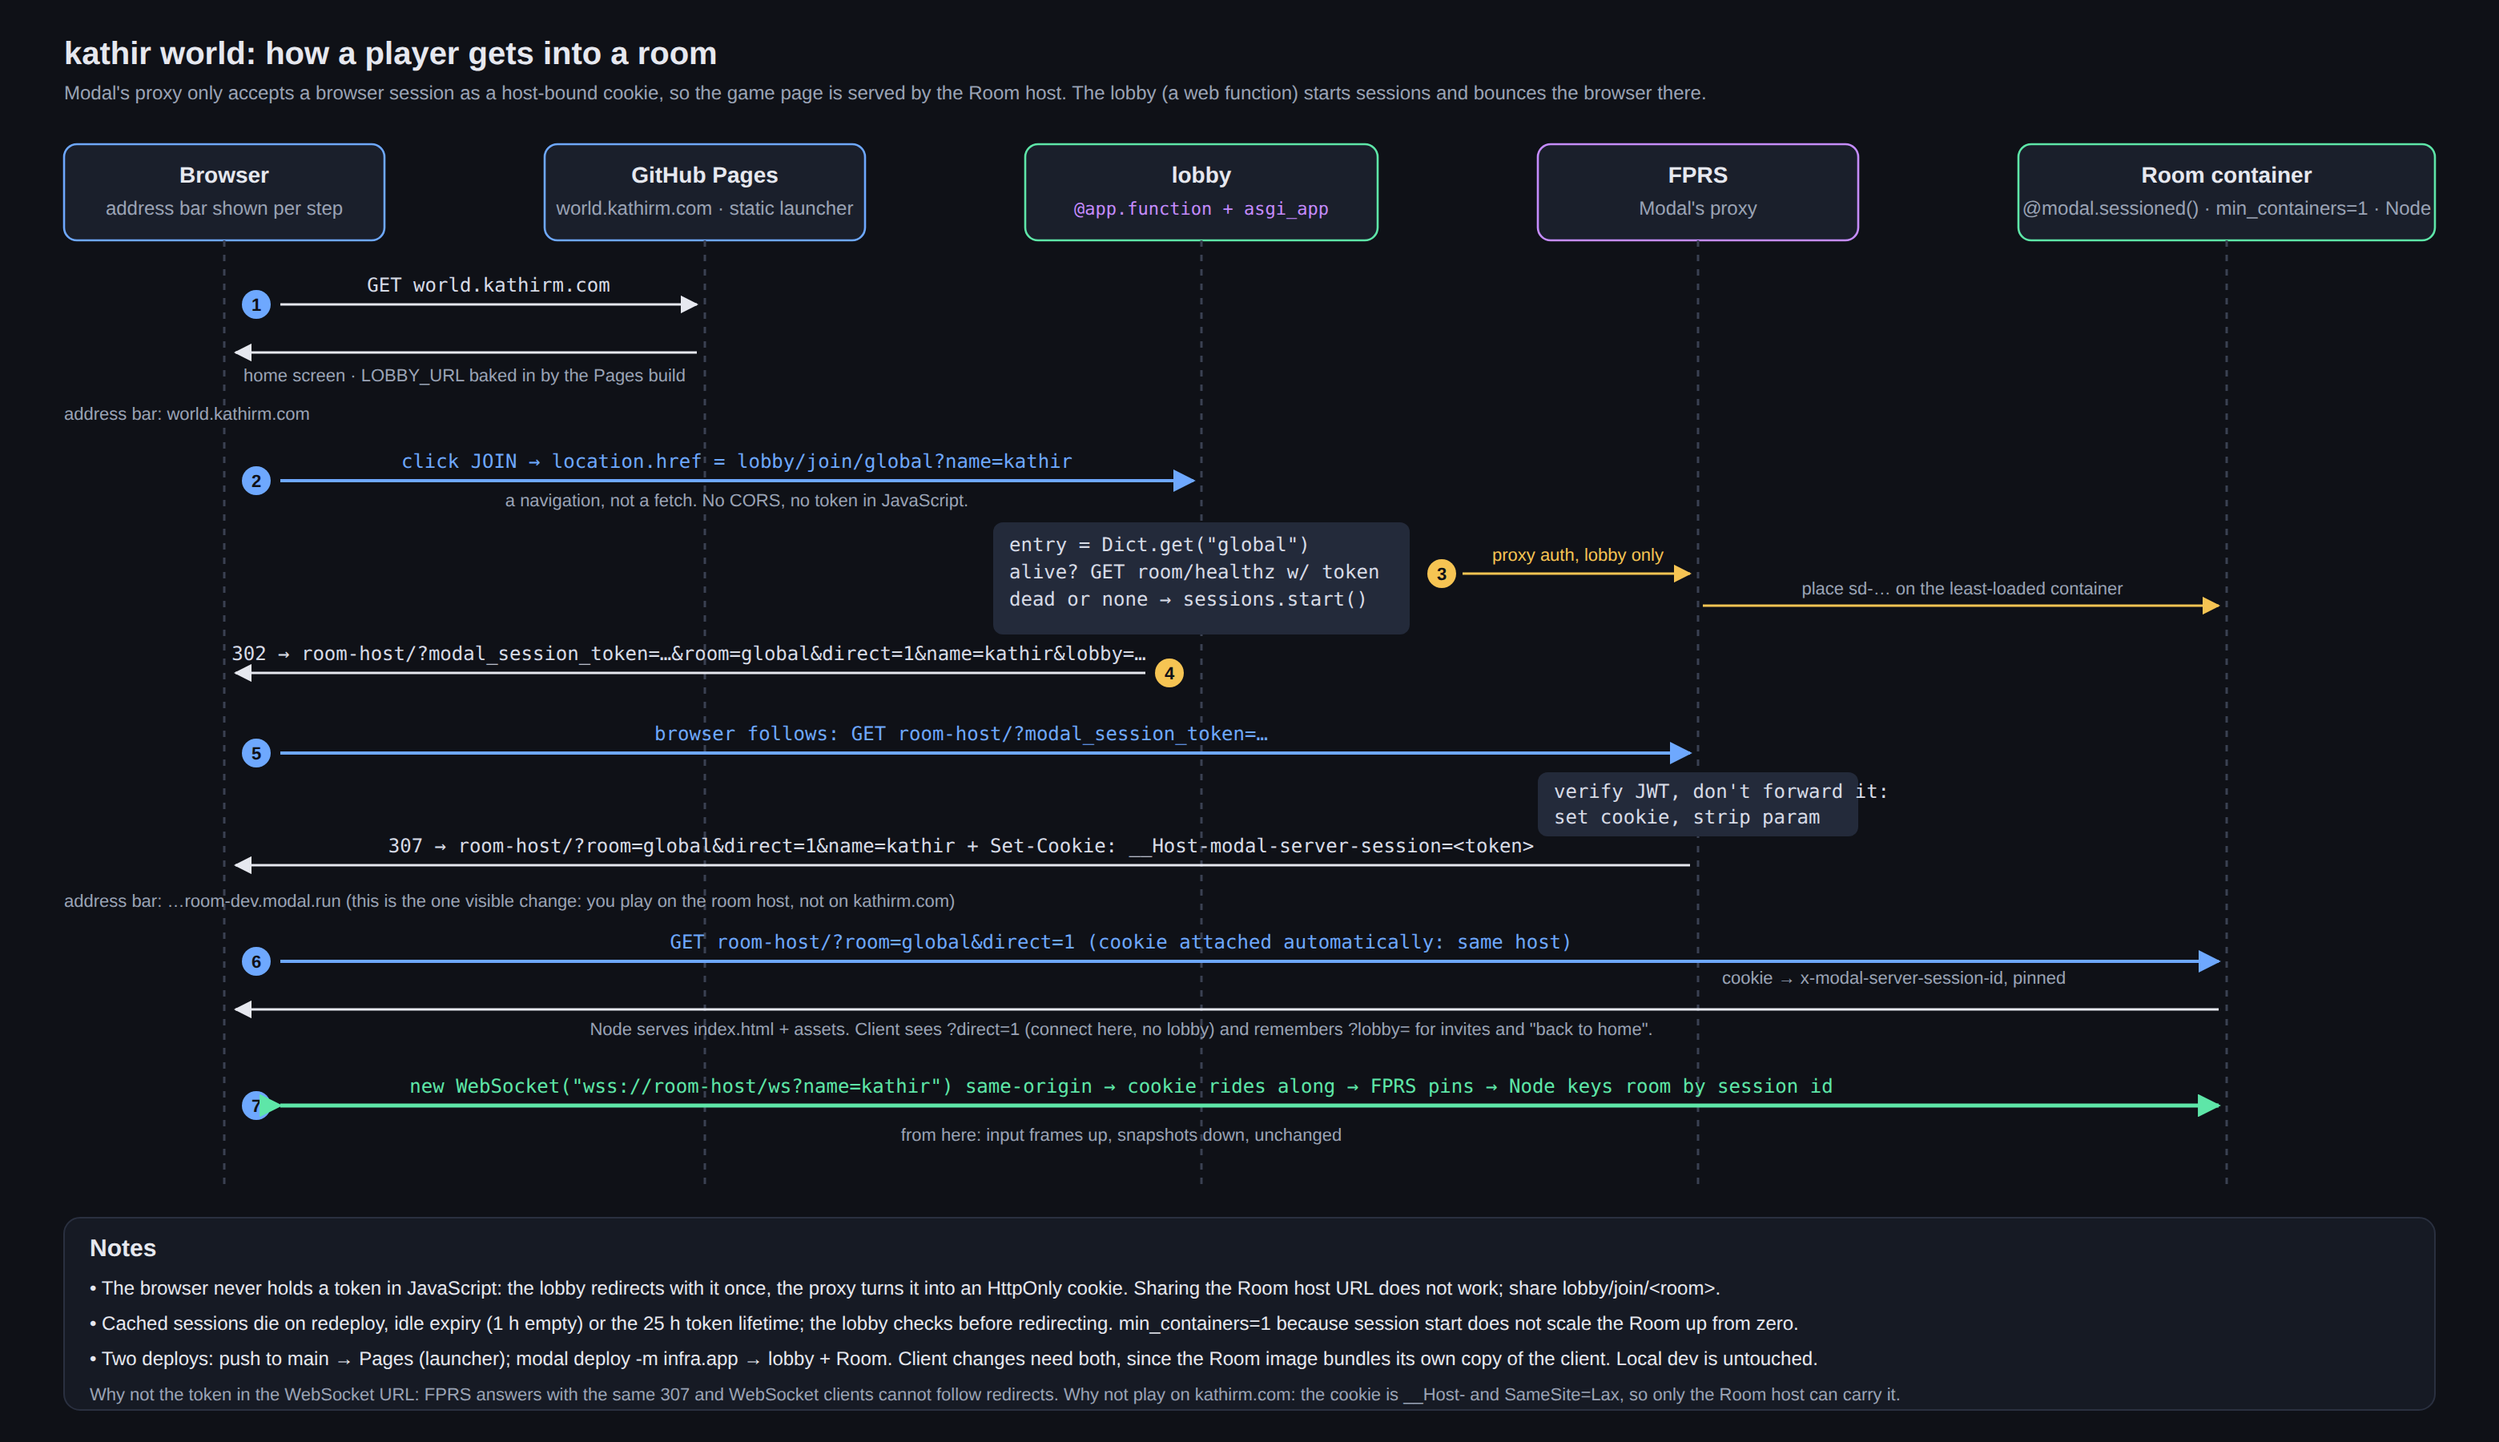
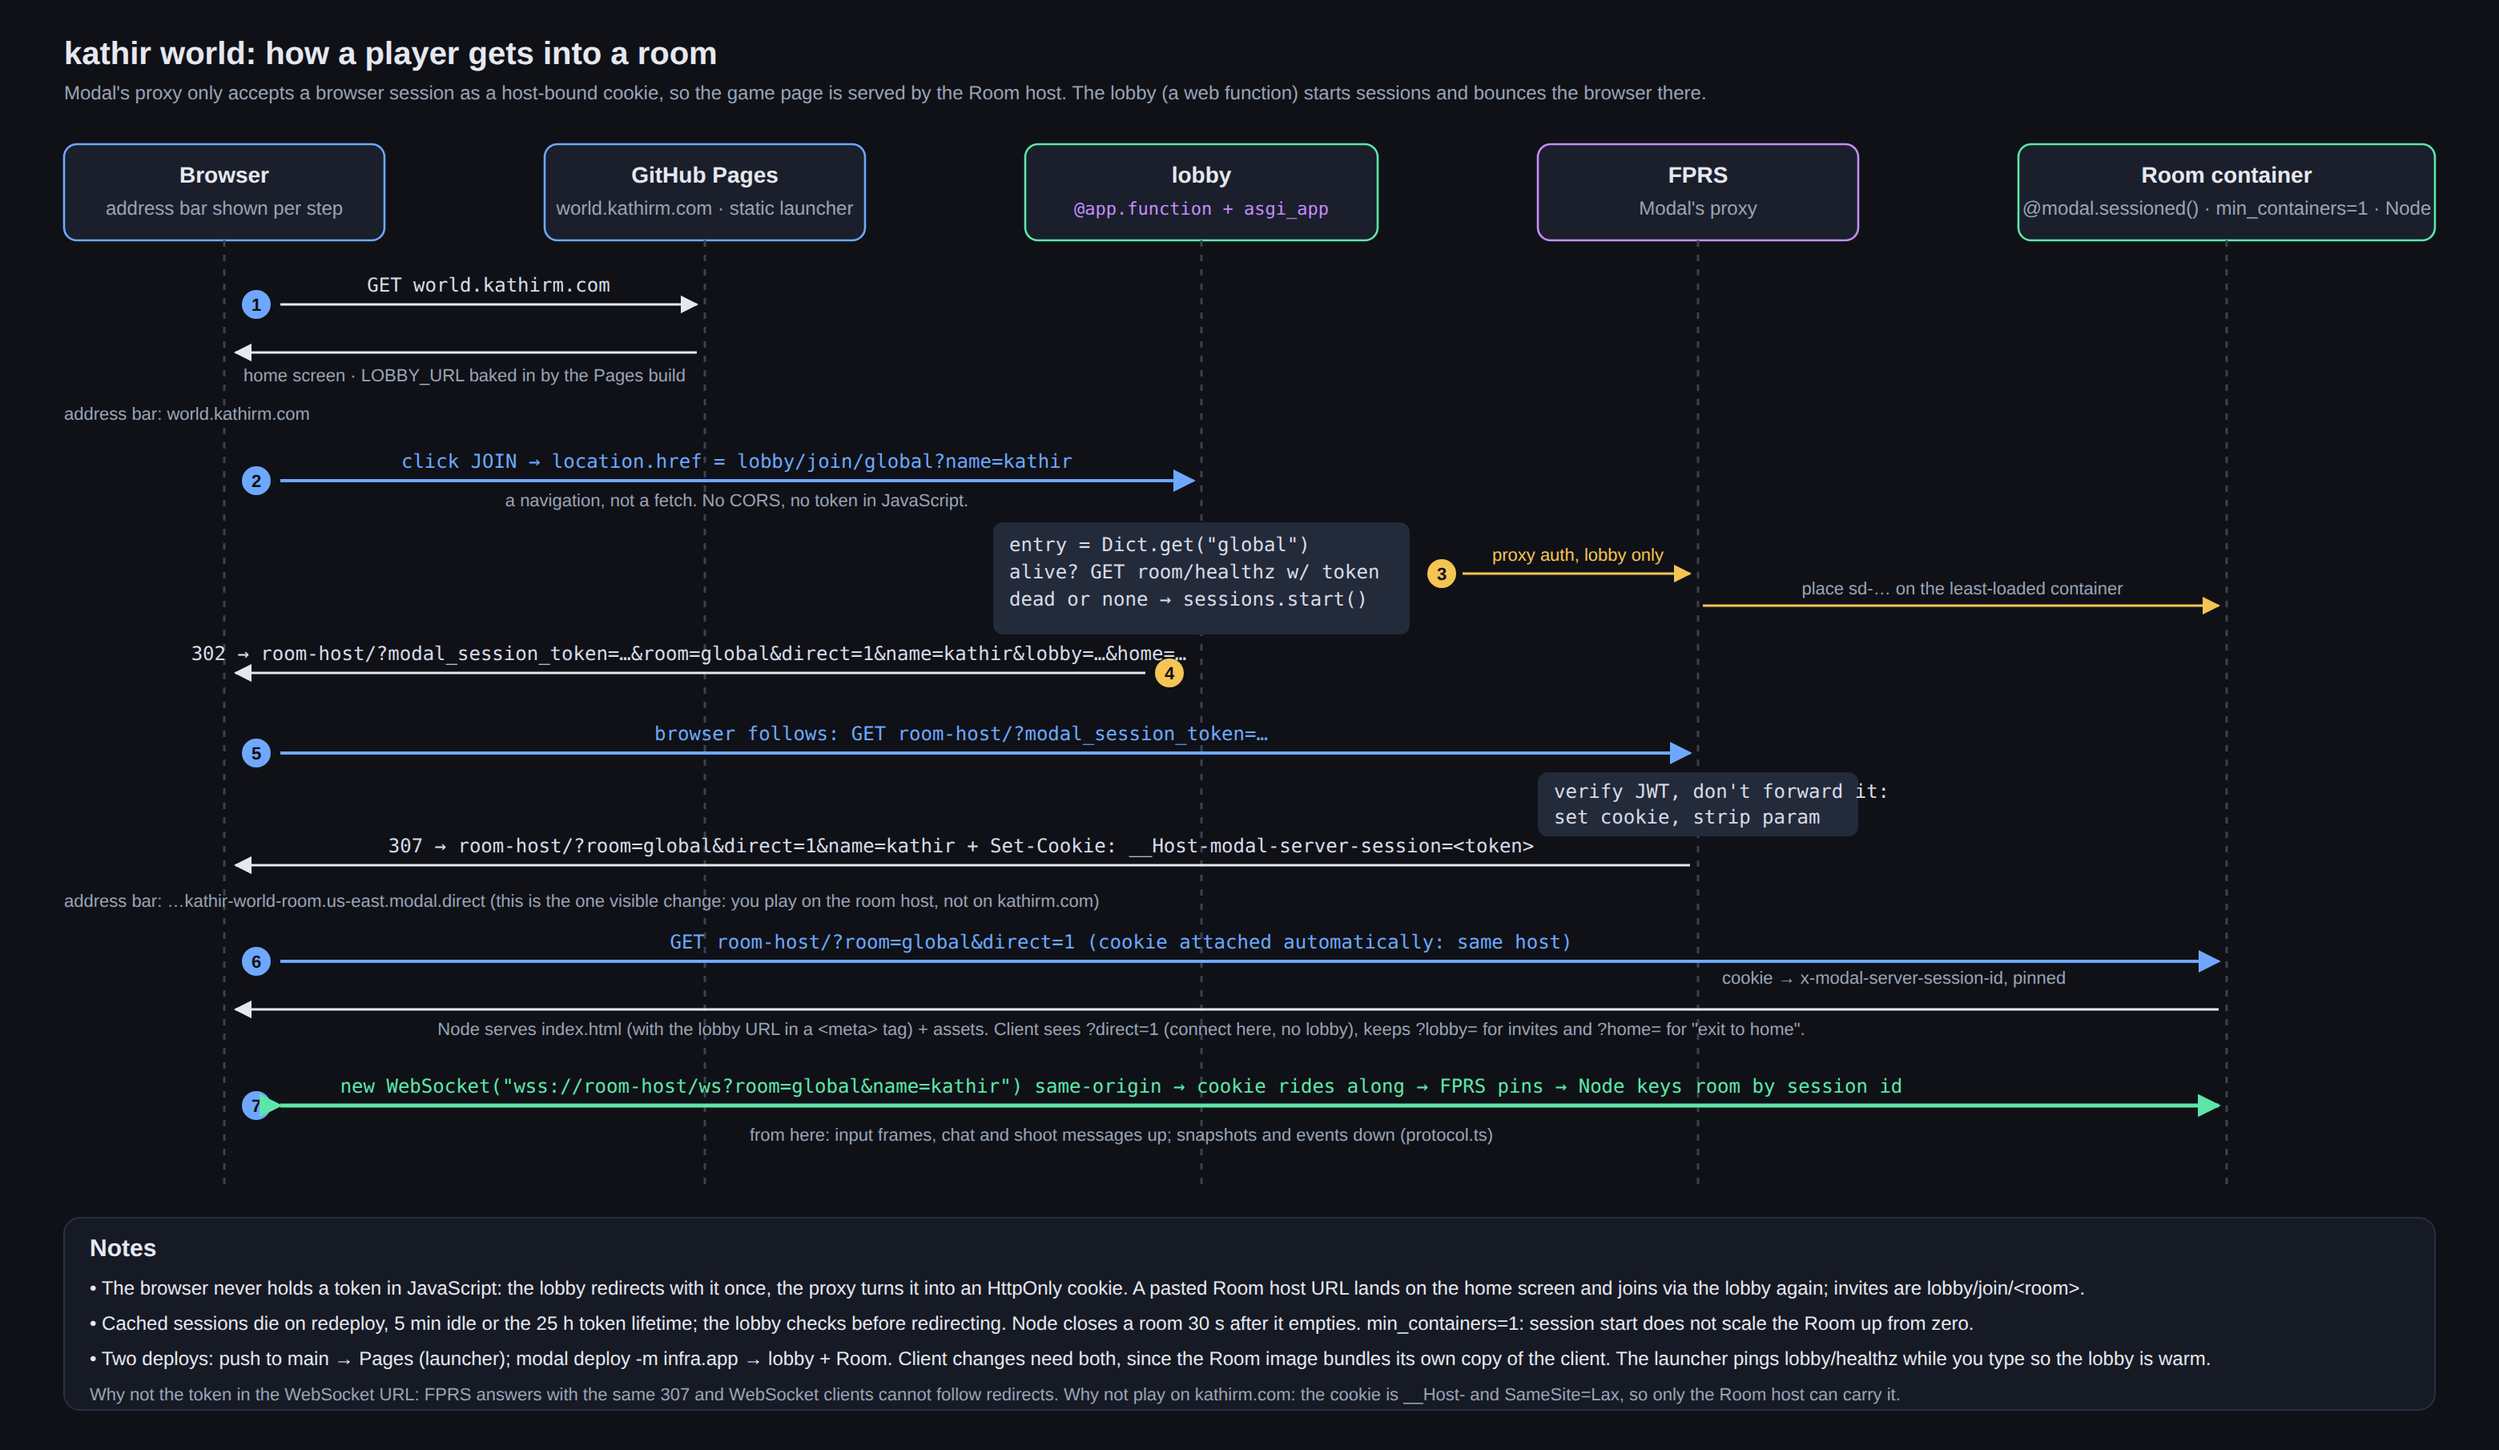
README is just the intro; the rest moves to docs/development.md
The join-flow diagram is redrawn for the current flow: the home param,
the meta tag with the lobby URL, the room in the WebSocket URL, 5 min
session idle, and the real room host name.

Claude-Session: https://claude.ai/code/session_014YYmWMHKTgzd54BtTa2jqc

diff --git a/docs/development.md b/docs/development.md
@@ -1,0 +1,79 @@
+# Development
+
+## Run it locally
+
+```bash
+npm install
+npm run dev        # room server on :8787 + Vite client on :5173
+```
+
+Open http://localhost:5173 in two tabs, join the same room code, and you're in multiplayer.
+Invite links look like `http://localhost:5173/?room=<code>`; add `&name=<name>` to skip the form.
+
+Useful while iterating:
+
+```bash
+npm run typecheck                  # all packages
+npm test                           # sim + room unit tests, and a real-server integration test
+npm run e2e                        # two headless browsers in one room (needs Chromium; set CHROMIUM_PATH if not default)
+SIM_LATENCY_MS=120 SIM_JITTER_MS=40 npm run dev:server   # watch prediction/reconciliation under lag
+```
+
+## Layout
+
+```
+packages/shared    @world/shared   pure TS: sim (movement, cubes, combat, items, avatars), protocol, Room host, content
+packages/client    @world/client   Vite + Babylon: home screen, rendering, input, prediction, interpolation, HUD
+packages/server    @world/server   Node: WebSocket room server, one process hosts many rooms, serves the client on Modal
+infra/                             Modal: lobby web function + sessioned Room server (Python package)
+docs/                              this file and the diagrams
+```
+
+`packages/shared` has no DOM or Node dependencies on purpose: the same `stepPlayer` runs on the
+server (authoritative) and in the browser (prediction), which is what lets reconciliation be exact.
+Anything about a player (position, item, avatar, hearts, boost) lives in `PlayerState` and is
+carried in every snapshot; the wire format is `packages/shared/src/protocol.ts`.
+
+## How multiplayer works
+
+- The client samples input at 30 Hz into numbered `InputFrame`s, applies each one locally right
+  away (prediction), and sends it to the room.
+- The room ticks at 30 Hz, applies each player's queued frames with the shared sim, steps the cubes,
+  and broadcasts a snapshot of everyone.
+- On each snapshot the client rewinds its own player to the server's state and replays the frames
+  the server hasn't acknowledged yet. Any residual difference is smoothed out over ~60 ms.
+- Remote players and cubes are rendered 3 ticks behind the newest snapshot, interpolating between
+  the two snapshots that bracket that time.
+- Look direction is client-authoritative; movement, jumping, shooting and damage are
+  server-authoritative. Chat commands (`/gun`, `/speedy`, `/elizabeth`, ...) are parsed and run in
+  the Room.
+
+Rooms are keyed by the `x-modal-server-session-id` header the Modal proxy stamps on the WebSocket
+upgrade, or by `?room=` when the server runs bare.
+
+![how the client interleaves frames and snapshots](client-timeline.png)
+
+## Hosting
+
+The backend is a Modal App in `infra/`: a `lobby` web function and a sessioned `Room` server that
+runs the Node room server and also serves the built client.
+
+```bash
+pip install -r infra/requirements.txt   # needs a client with @modal.sessioned(), see the file
+modal serve -m infra.app                # or modal deploy -m infra.app
+```
+
+Joining goes through a redirect: `GET <lobby>/join/<room>?name=<name>` starts a session (or reuses
+the live one cached in a Dict) and sends the browser to the Room host with the session token in the
+URL. Modal's proxy swaps that for a host-bound cookie, the Room's Node process serves the page, and
+the game's WebSocket is then same-origin so the cookie covers it. The page therefore runs on the
+Room host while playing. The served page carries the lobby's URL in a meta tag, so a pasted Room
+host URL still joins through the lobby.
+
+GitHub Pages (`.github/workflows/deploy.yml`) keeps serving a copy of the client at
+world.kathirm.com as a launcher: set the `LOBBY_URL` repository variable to the lobby's URL and
+its join buttons navigate to the lobby. Without it, that copy offers offline mode only. Pushing to
+main deploys Pages; the Modal side is a separate `modal deploy`, and client changes need both since
+the Room image bundles its own copy of the client.
+
+![how a player gets into a room](join-flow.png)

diff --git a/README.md b/README.md
@@ -1,71 +1,3 @@
 # kathir world
 
 Started as a gamified personal portfolio that only ran on client, and then turned into brainrot after I got my hands on Modal compute. Join with friends and have fun.
-
----
-
-### Run it locally
-
-```bash
-npm install
-npm run dev        # room server on :8787 + Vite client on :5173
-```
-
-Open http://localhost:5173 in two tabs, join the same room code, and you're in multiplayer.
-Invite links look like `http://localhost:5173/?room=<code>`; add `&name=<name>` to skip the form.
-
-Useful while iterating:
-
-```bash
-npm run typecheck                  # all packages
-npm test                           # sim + room unit tests, and a real-server integration test
-npm run e2e                        # two headless browsers in one room (needs Chromium; set CHROMIUM_PATH if not default)
-SIM_LATENCY_MS=120 SIM_JITTER_MS=40 npm run dev:server   # watch prediction/reconciliation under lag
-```
-
-### Layout
-
-```
-packages/shared    @world/shared   pure TS: sim (movement, cubes), protocol, Room host, cube content
-packages/client    @world/client   Vite + Babylon: home screen, rendering, input, prediction, interpolation, HUD
-packages/server    @world/server   Node: WebSocket room server, one process hosts many rooms
-infra/                             Modal: lobby web function + sessioned Room server (Python package)
-docs/                              architecture diagrams
-```
-
-`packages/shared` has no DOM or Node dependencies on purpose: the same `stepPlayer` runs on the
-server (authoritative) and in the browser (prediction), which is what lets reconciliation be exact.
-
-### How multiplayer works
-
-- The client samples input at 30 Hz into numbered `InputFrame`s, applies each one locally right
-  away (prediction), and sends it to the room.
-- The room ticks at 30 Hz, applies each player's queued frames with the shared sim, steps the cubes,
-  and broadcasts a snapshot of everyone.
-- On each snapshot the client rewinds its own player to the server's state and replays the frames
-  the server hasn't acknowledged yet. Any residual difference is smoothed out over ~60 ms.
-- Remote players and cubes are rendered 3 ticks behind the newest snapshot, interpolating between
-  the two snapshots that bracket that time.
-- Look direction is client-authoritative; movement and jumping are server-authoritative.
-
-Rooms are keyed by the `x-modal-server-session-id` header the Modal proxy stamps on the WebSocket
-upgrade, or by `?room=` when the server runs bare. `docs/join-flow.png` shows how a player gets into a hosted room; `docs/client-timeline.png` shows how the client interleaves frames and snapshots.
-
-### Hosting
-
-The backend is a Modal App in `infra/`: a `lobby` web function and a sessioned `Room` server that
-runs the Node room server and also serves the built client. See `docs/join-flow.png`.
-
-```bash
-pip install -r infra/requirements.txt   # needs a client with @modal.sessioned(), see the file
-modal serve -m infra.app                # or modal deploy -m infra.app
-```
-
-Joining goes through a redirect: `GET <lobby>/join/<room>?name=<name>` starts a session and sends
-the browser to the Room host with the session token in the URL. Modal's proxy swaps that for a
-host-bound cookie, the Room's Node process serves the page, and the game's WebSocket is then
-same-origin so the cookie covers it. The page therefore runs on the Room host while playing.
-
-GitHub Pages (`.github/workflows/deploy.yml`) keeps serving a copy of the client at
-world.kathirm.com as a launcher: set the `LOBBY_URL` repository variable to the lobby's URL and
-its join buttons navigate to the lobby. Without it, that copy offers offline mode only.
